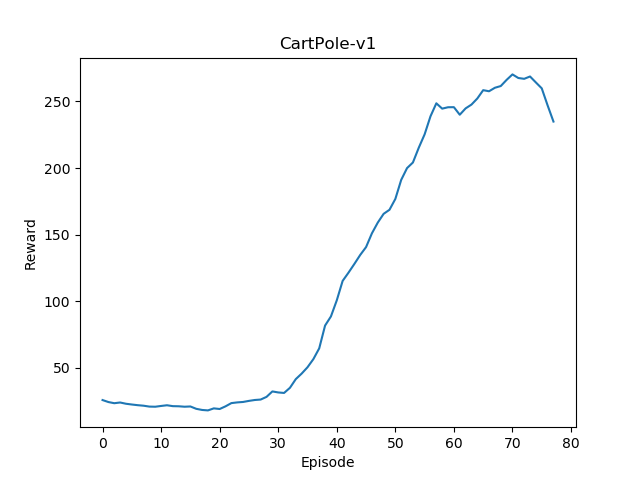
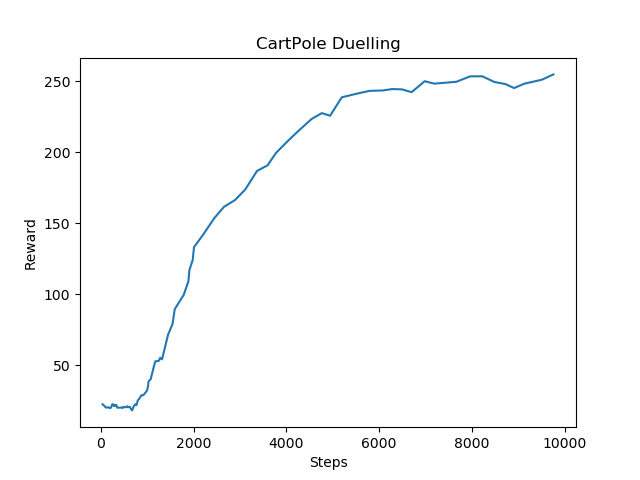
Fix problem with the new graphs

diff --git a/agent.py b/agent.py
@@ -264,7 +264,7 @@ class Agent:
                 if n_steps > max_steps + self.warmup_steps:
                     break
             episodes_rewards.append(episode_reward)
-            episodes_steps.append(steps)
+            episodes_steps.append(n_steps)
 
             if checkpoint_path is not None and n_steps - previous_step_save >= 1000:
                 previous_step_save = n_steps
@@ -389,7 +389,7 @@ def plot_avg_rewards(results, config):
     # r = pd.DataFrame(list(zip(cluster, rewards)), columns=['Episode', 'Reward'])
     # sns.lineplot(x="Episode", y="Reward", data=r , ci='sd')
     plot_rewards = get_updated_reward_from_config(results["train_rewards"], config)
-    plt.plot(results["train_episodes"], plot_rewards)
+    plt.plot(results["train_steps"], plot_rewards)
     plt.title(config['name'])
     plt.xlabel("Steps")
     plt.ylabel("Reward")
@@ -405,7 +405,7 @@ def plot_compare_rewards(rewards_list, config_list, path):
     for results, config in zip(rewards_list, config_list):
         plot_rewards = get_updated_reward_from_config(results["train_rewards"], config)
         labels.append(config['name'])
-        plt.plot(results["train_episodes"], plot_rewards)
+        plt.plot(results["train_steps"], plot_rewards)
     title = " ".join(labels)
     plt.legend(labels)
     plt.title("Compare " + title)
@@ -452,12 +452,12 @@ def run_from_config(config, render_tests=False):
             agent.load_weights(config['weight_path'])
         else:
             agent.compile()
-        history, train_rewards, trains_steps = agent.train(max_steps=train_config['max_steps'], batch_size=train_config['batch_size'],
+        history, train_rewards, train_steps = agent.train(max_steps=train_config['max_steps'], batch_size=train_config['batch_size'],
                                              gamma=train_config['gamma'], weights_path=config['weight_path'], checkpoint_path=config['checkpoint_path'])
-        trains_results = {"train_rewards":train_rewards,"trains_steps":trains_steps}
+        trains_results = {"train_rewards":train_rewards,"train_steps":train_steps}
         agent.save(config['model_path'])
         with open(config['rewards_path'], "w") as f:
-            json.dump({"train_rewards":train_rewards,"trains_steps":trains_steps}, f)
+            json.dump({"train_rewards":train_rewards,"train_steps":train_steps}, f)
     agent.test(n_tests=test_config['n_tests'], render=render_tests)
 
     return history, trains_results, agent

diff --git a/gym_environments/cartpole.py b/gym_environments/cartpole.py
@@ -34,7 +34,7 @@ CARTPOLE = {
         'gamma': 0.975,
     },
     'test_config': {
-        'n_tests': 100,
+        'n_tests': 1,
     },
 }
 
@@ -72,6 +72,6 @@ CARTPOLE_NO_DUELLING = {
         'gamma': 0.975,
     },
     'test_config': {
-        'n_tests': 100,
+        'n_tests': 1,
     },
 }
